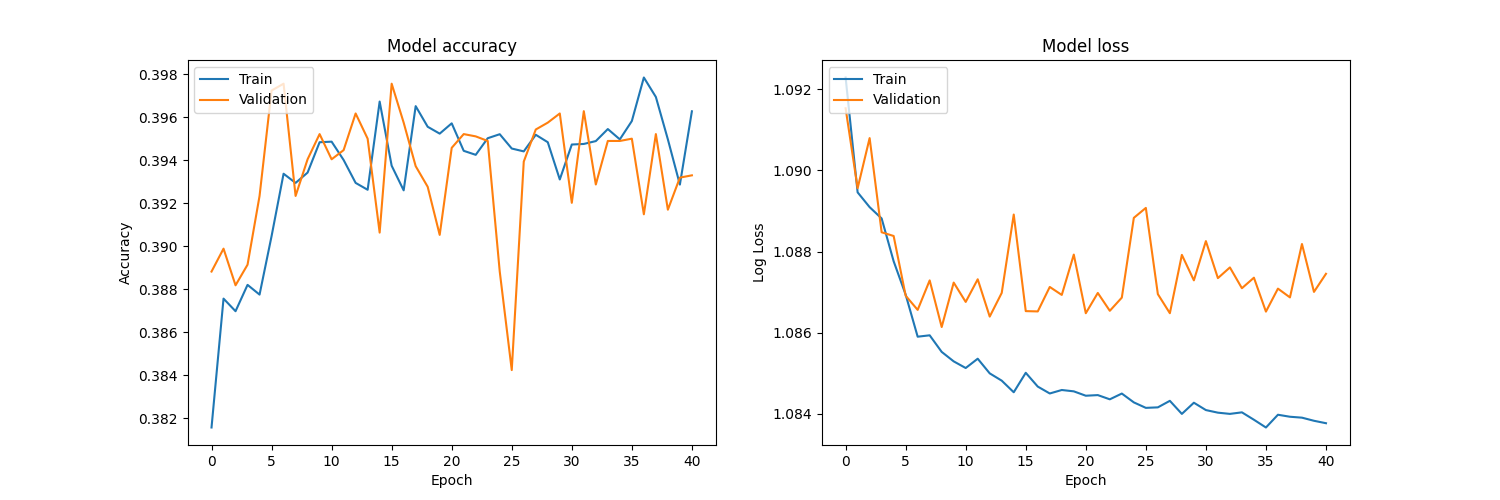
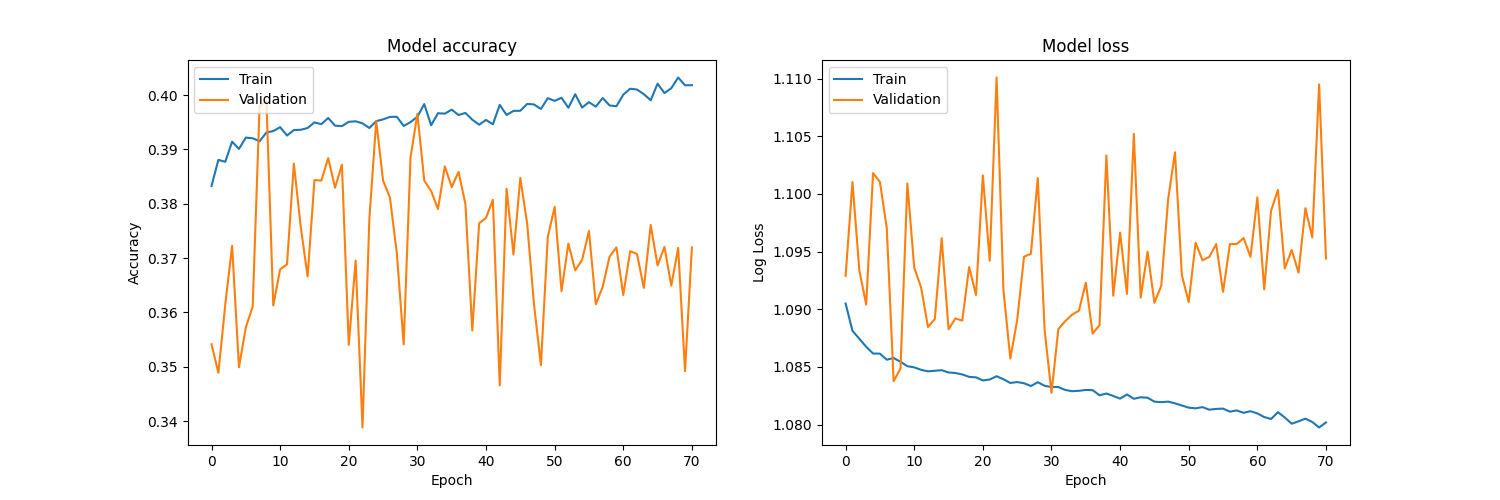
repaired name conflict in common

diff --git a/main.py b/main.py
@@ -11,12 +11,14 @@ import xgboost as xgb
 import time
 from config import min_time, max_time, minbetodd, maxbetodd, insufficient, threshold, n_iter
 import wandb
-from wandb.keras import WandbCallback
-from wandb.xgboost import WandbCallback
+from common import removeDotFromColumnNames, dropMinutes, sortByDate, dropNotDraw, oddsFilter,addSumStats, dif_threshold, dropInsufficient
+from XGBwithBayesSearch import xgb_model
+from neuralNetwork import nn_model
 
 wandb.init(
     project="09-23 xgb and nn",
-    notes="no regularization",
+    #notes="SMOTE, 3 layers only, no regularization",
+    notes="xgb drop sumstats",
     tags=["xgb","nn"]
 )
 
@@ -24,16 +26,9 @@ start_time = time.time() # to compare running time with and without normalizatio
 
 matplotlib.use('TkAgg')
 
-
-#wandb login
-from common import removeDotFromColumnNames, dropMinutes, sortByDate, dropNotDraw, oddsFilter,addSumStats, dif_threshold, dropInsufficient
-from XGBwithBayesSearch import xgb_model
-from neuralNetwork import nn_model
-
 df = pd.read_csv('/home/kk/PycharmProjects/oddmaker/data/exp23_withLeagues_LIMITED_minutes_4-35_odd_1.1-5_insfufficient_10_dif_1_onlyDraws.csv')
 df.dropna(inplace=True)
 print(df.shape)
-
 
 pipeline = pipe(
     removeDotFromColumnNames,
@@ -49,6 +44,8 @@ pipeline = pipe(
 # Apply pipeline
 df = pipeline(df)
 df.drop(['datetimestamp'], axis=1, inplace=True)
+df.drop(['sumAstats'], axis=1, inplace=True)
+df.drop(['sumBstats'], axis=1, inplace=True)
 print(df.shape)
 #df = df.iloc[:len(df)//100]      #uncomment for quick test run <-----------------------------------------------
 print(df.shape)
@@ -70,7 +67,7 @@ X_train, X_test, y_train, y_test = train_test_split(df.drop('zzz_play', axis=1),
 # XGB - 2
 # Use selector to choose model
 
-model_selector = 1
+model_selector = 2
 
 if model_selector == 2:
     xgb_model(X_train, X_test, y_train, y_test)

diff --git a/neuralNetwork.py b/neuralNetwork.py
@@ -3,18 +3,24 @@ from tensorflow.keras.layers import Dense
 from tensorflow.keras.callbacks import EarlyStopping
 import matplotlib
 import matplotlib.pyplot as plt
-from tensorflow.keras import regularizers
+#from tensorflow.keras import regularizers
 from wandb.keras import WandbCallback
 import wandb
+from imblearn.over_sampling import SMOTE
 matplotlib.use('TkAgg')
+
 def nn_model(X_train, X_test, y_train, y_test):
     n_features = X_train.shape[1]  # Get the number of features from the training data
 
+    # SMOTE
+    sm = SMOTE(random_state=42)
+    X_train, y_train = sm.fit_resample(X_train, y_train)
+
     model = Sequential()
     model.add(Dense(n_features, input_dim=n_features, activation='relu'))
+    model.add(Dense(30, activation='relu'))
+    model.add(Dense(15, activation='relu'))
     model.add(Dense(8, activation='relu'))
-    model.add(Dense(16, activation='relu'))
-    model.add(Dense(8, activation='relu', ))
     model.add(Dense(3, activation='softmax'))
 
     model.compile(loss='sparse_categorical_crossentropy', optimizer='adam', metrics=['accuracy'])

diff --git a/statisticsChecks(correlation,distribution etc)/correlation.py b/statisticsChecks(correlation,distribution etc)/correlation.py
@@ -26,7 +26,7 @@ pipeline = pipe(
 df = pipeline(df)
 df.drop(['datetimestamp'], axis=1, inplace=True)
 print(df.shape)
-df = df.iloc[:len(df)//100]      #uncomment for quick test run
+# df = df.iloc[:len(df)//100]      #uncomment for quick test run
 print(df.shape)
 
 correlation_matrix = df.corr()

diff --git a/config.py b/config.py
@@ -4,5 +4,5 @@ minbetodd = 1.9
 maxbetodd = 3.5
 insufficient = 20
 threshold = 1
-n_iter = 5 #BayesSearch
-cv = 4 #BayesSearch
+n_iter = 3 #BayesSearch
+cv = 2 #BayesSearch
